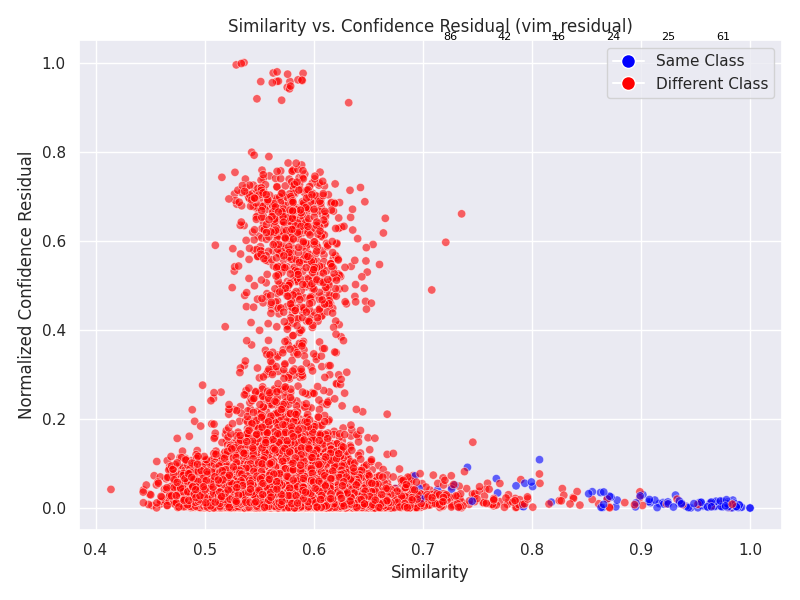
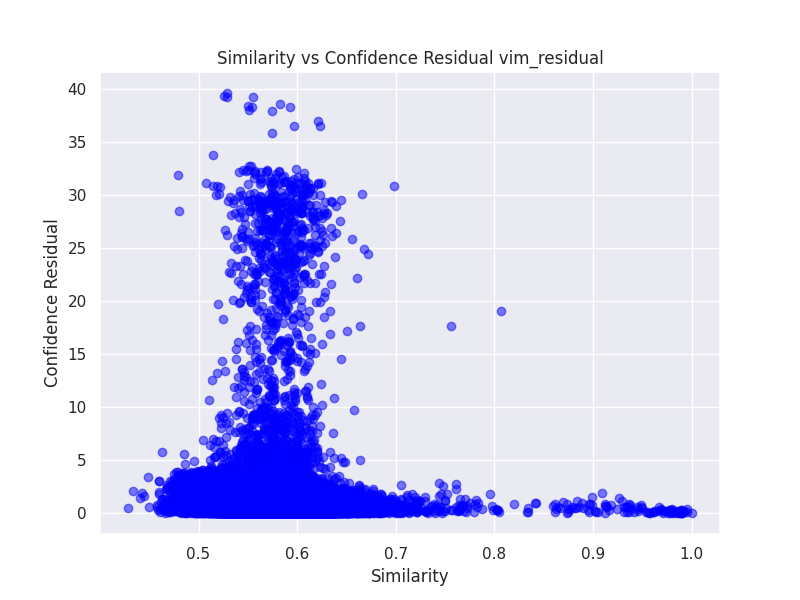
AD

diff --git a/test.py b/test.py
@@ -1,3 +1,5 @@
+
+
 import random
 import argparse
 import os
@@ -6,56 +8,45 @@ import numpy as np
 import torch
 import torch.nn as nn
 import matplotlib.pyplot as plt
-from collections import Counter
-from matplotlib.lines import Line2D
-
-
-
 def compare_two_points_confidence(scores_dict, data, point1, point2, method="max_logit"):
-
     confidence1 = scores_dict[method][point1]
     confidence2 = scores_dict[method][point2]
     confidence_residual = abs(confidence1 - confidence2)
-
   
     feature1 = data['features'][point1]
     feature2 = data['features'][point2]
-
-
     similarity = np.dot(feature1, feature2) / (np.linalg.norm(feature1) * np.linalg.norm(feature2))
     similarity = (similarity + 1) / 2
-
     return confidence_residual, similarity
-
-
+def plot_similarity_vs_residual(similarities, residuals, output_path, method="max_logit"):
+    plt.figure(figsize=(8, 6))
+    plt.scatter(similarities, residuals, c='blue', alpha=0.5)
+    plt.title(f"Similarity vs Confidence Residual {method}")
+    plt.xlabel("Similarity")
+    plt.ylabel("Confidence Residual")
+    plt.grid(True)
+    plt.savefig(output_path)
+    plt.close()
 def main(args):
     load_data_root = args.data_dir
     in_logits, in_labels, in_features, last_layer_weights, last_layer_bias = read_data(load_data_root, True)
-
-
     in_set_length = in_features.shape[0]
     cali_indices = np.random.choice(in_set_length, args.cali_size, replace=False)
     cali_features = in_features[cali_indices, :]
     cali_logits = in_logits[cali_indices, :]
-
-
     in_scores_dict, in_residuals_dict = calculate_score_residual(
         in_logits, in_labels, in_features, last_layer_weights, last_layer_bias,
         clean_set_features=cali_features, clean_set_logits=cali_logits
     )
-
     data = {
         'logits': in_logits,
         'features': in_features,
         'labels': in_labels
     }
 
-    similarity_bins = [f"{i}-{i+5}" for i in range(70, 100, 5)]
     for key in in_scores_dict:
         similarities = []
         confidence_residuals = []
-        colors = []
-        similarity_counts = Counter({bin_label: 0 for bin_label in similarity_bins})
         for _ in range(100000):
             i = random.randint(0, in_set_length - 1)
             j = random.randint(0, in_set_length - 1)
@@ -63,64 +54,9 @@ def main(args):
             confidence_residual, similarity = compare_two_points_confidence(in_scores_dict, data, i, j, key)
             similarities.append(similarity)
             confidence_residuals.append(confidence_residual)
-
-
-
-
-            if in_labels[i] == in_labels[j]:
-                colors.append('blue')  
-            else:
-                colors.append('red')  
-
-        for similarity in similarities:
-            if similarity * 100 >= 70:
-                for i in range(70, 100, 5):
-                    if i <= (similarity * 100) < i + 5:
-                        bin_label = f"{i}-{i+5}"
-                        similarity_counts[bin_label] += 1
-                        break
-
-
-        print(f"Similarity distribution for {key}:")
-        for bin_label, count in similarity_counts.items():
-            print(f"{bin_label}: {count} points")
-            
-        max_conf = np.max(confidence_residuals)
-        normalized_confidence_residuals = [x / max_conf for x in confidence_residuals]    
-        print(len(similarities))
-        print(similarity_counts)
-        print("confidence residuals:", len(confidence_residuals))
-        print("normalized:",len(normalized_confidence_residuals))
-
-  
-
-
-
         output_path = os.path.join(".", f"similarity_vs_confidence_residual_{key}.png")
-        plt.figure(figsize=(8, 6))
-        plt.scatter(similarities, normalized_confidence_residuals, c=colors, alpha=0.6, edgecolors='w', linewidth=0.5)
-        plt.xlabel('Similarity')
-        plt.ylabel('Normalized Confidence Residual')
-        plt.title(f'Similarity vs. Confidence Residual ({key})')
-        for idx, (bin_label, count) in enumerate(similarity_counts.items()):
-            bin_start, bin_end = [int(x) for x in bin_label.split('-')]
-            avg_similarity = (bin_start + bin_end) / 200
-            plt.text(avg_similarity, 1.05, f"{count}", ha='center', fontsize=8, color="black")
-        
-        legend_elements = [
-            Line2D([0], [0], marker='o', color='w', label='Same Class', markerfacecolor='blue', markersize=10),
-            Line2D([0], [0], marker='o', color='w', label='Different Class', markerfacecolor='red', markersize=10)
-        ]
-        plt.legend(handles=legend_elements, loc='upper right')
-
-        plt.grid(True)
-        plt.tight_layout()
-        plt.savefig(output_path)
-        plt.close()
-
-
+        plot_similarity_vs_residual(similarities, confidence_residuals, output_path, key)
     print(f"Plot saved at {output_path}")
-
 if __name__ == "__main__":
     parser = argparse.ArgumentParser()
     parser.add_argument(
